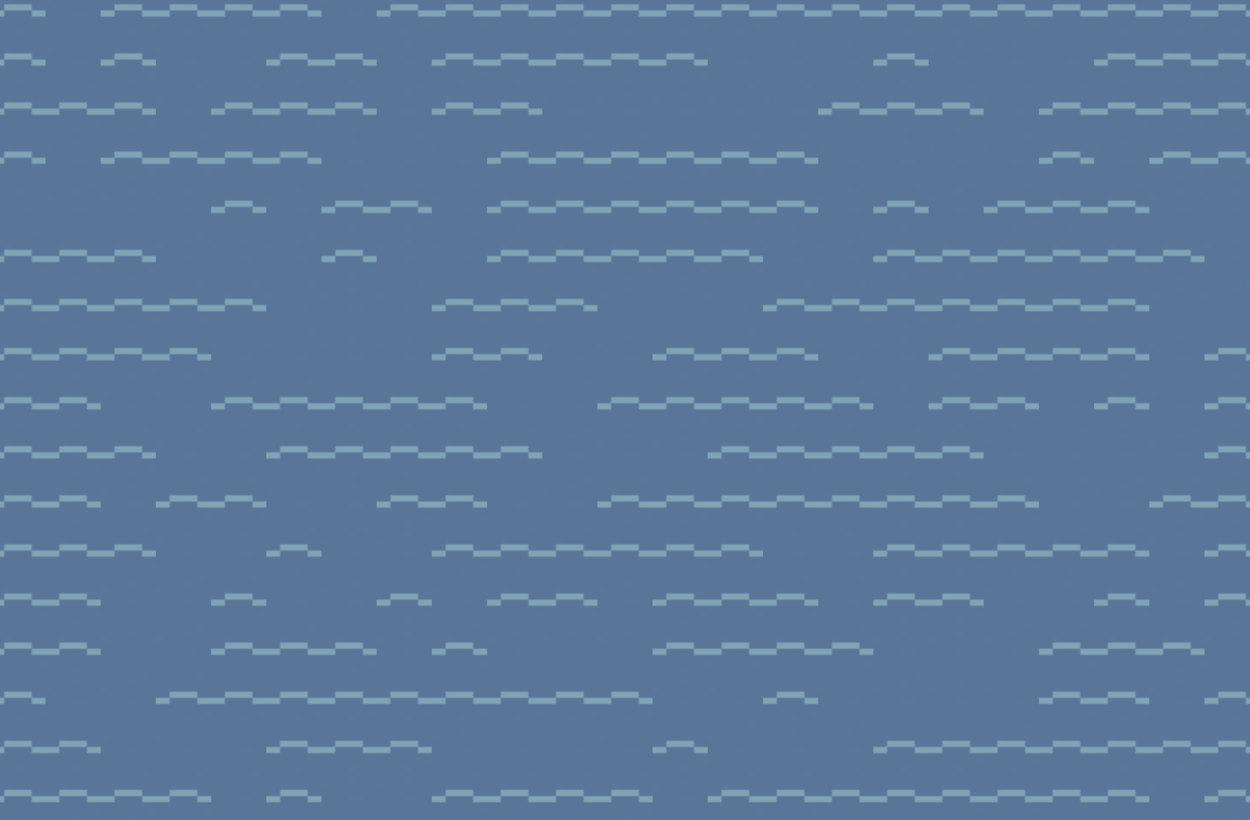
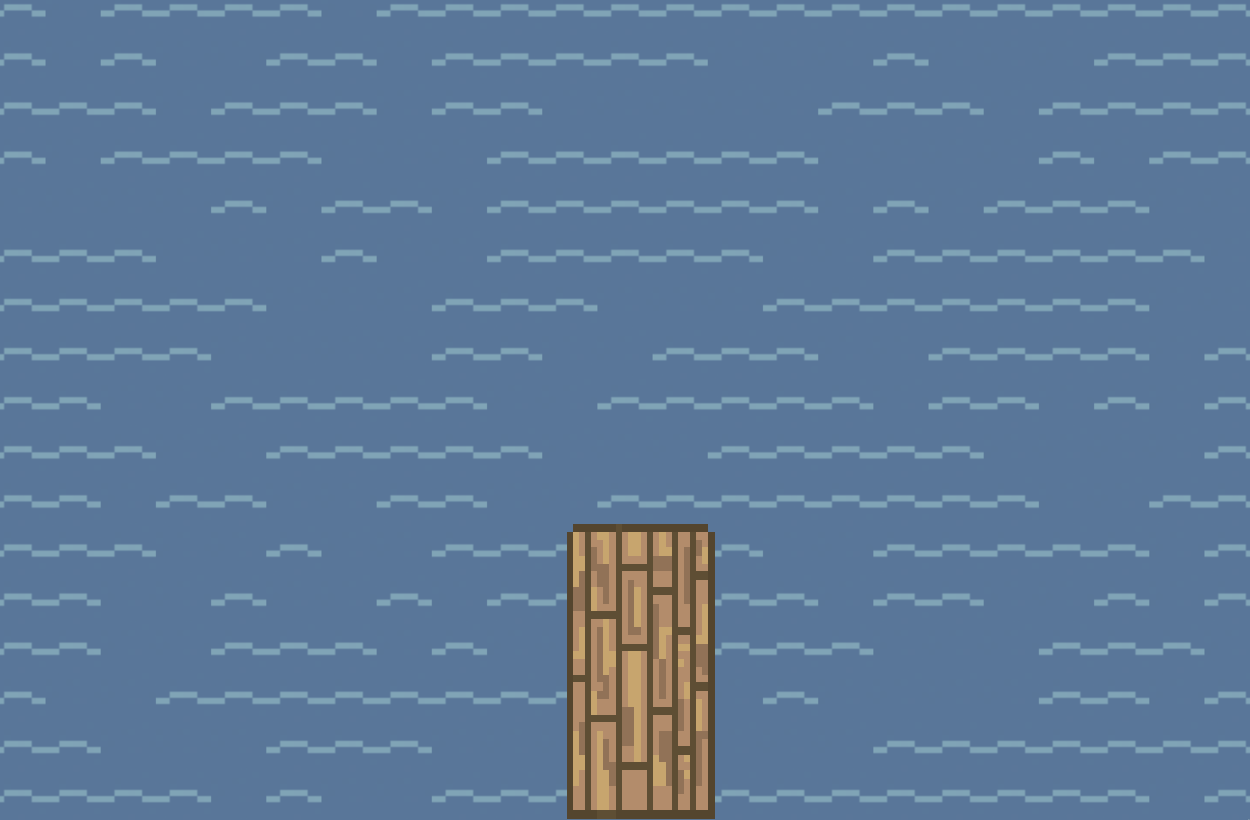
added authors and ocean to GUI

Changed region(s): [[0.4368, 0.6402, 0.5928, 1.0]]

diff --git a/src/GUI/GameController.java b/src/GUI/GameController.java
@@ -23,6 +23,10 @@ import java.util.ArrayList;
 import java.util.Map;
 import java.util.ResourceBundle;
 
+/**
+ *
+ * @author Kasper, Jonas
+ */
 public class GameController implements Initializable {
 
     Game game;
@@ -134,7 +138,7 @@ public class GameController implements Initializable {
             case W, A, S, D -> playerMove.onKeyPressedMovement(event.getCode());
             case SPACE -> {
                 goNextRoom();
-                picupItem();
+                pickupItem();
             }
             case Q -> dropBucket();
             case E -> emptyBucket();
@@ -222,7 +226,7 @@ public class GameController implements Initializable {
         }
     }
 
-    private void picupItem() {
+    private void pickupItem() {
         for (ImageView item : items) {
             if (item.getBoundsInParent().intersects(playerPane.getBoundsInParent())) {
                 String fileName = item.getImage().getUrl();
@@ -315,12 +319,24 @@ public class GameController implements Initializable {
             temp.setLayoutX(boundary.get(0));
             temp.setLayoutY(boundary.get(1));
             temp.setId("border");
-            //temp.setStyle("-fx-background-color: Blue;");
-            //playerPane.setStyle("-fx-background-color: Red;");
-            temp.setVisible(false);
+            temp.setStyle("-fx-background-color: Blue;");
+            playerPane.setStyle("-fx-background-color: Red;");
+            temp.setVisible(true);
+            DEBUGGINGMoveItemsAround(temp);
             scene.getChildren().add(temp);
             borders.add(temp);
         }
+    }
+
+    private static void DEBUGGINGMoveItemsAround(Pane temp) {
+        temp.setOnMouseDragged(event -> {
+            temp.setLayoutX(event.getSceneX());
+            temp.setLayoutY(event.getSceneY());
+        });
+        temp.setOnMouseReleased(event -> {
+            String outString = "{\""+temp.getId()+"\": [" + temp.getLayoutX()+", " + temp.getLayoutY() + ", " + temp.getPrefWidth() + ", " + temp.getPrefHeight() + "],\n";
+            System.out.println(outString);
+        });
     }
 
     private void changeSceneImage() {
@@ -341,8 +357,9 @@ public class GameController implements Initializable {
             temp.setLayoutX(value.get(0));
             temp.setLayoutY(value.get(1));
             temp.setId(key);
-            //temp.setStyle("-fx-background-color: Green;");
-            temp.setVisible(false);
+            temp.setStyle("-fx-background-color: Green;");
+            temp.setVisible(true);
+            DEBUGGINGMoveItemsAround(temp);
             playerMove.addCollider(temp);
         }
     }

diff --git a/src/domain/Game.java b/src/domain/Game.java
@@ -3,6 +3,10 @@ package oceanCleanup.src.domain;
 
 import java.util.List;
 
+/**
+ *
+ * @author Kasper, Jonas
+ */
 public class Game {
 
     protected Room currentRoom;
@@ -33,29 +37,32 @@ public class Game {
 
         dock.setExit("east", recyclingCenter);
         dock.setExit("north", ship);
+        // for GUI
         dock.setExit("torecyclingcenter", recyclingCenter);
         dock.setExit("toship", ship);
 
         recyclingCenter.setExit("west", dock);
         recyclingCenter.setExit("east", container);
+        // for GUI
         recyclingCenter.setExit("todock", dock);
         recyclingCenter.setExit("tocontainer", container);
 
         container.setExit("west", recyclingCenter);
+        // for GUI
         container.setExit("torecyclingcenter", recyclingCenter);
 
         ship.setExit("south", dock);
         ship.setExit("west", wheelhouse);
+        ship.setExit("east", ocean);
         ship.setExit("todock", dock);
         ship.setExit("towheelhouse", wheelhouse);
+        ship.setExit("toocean", ocean);
 
         wheelhouse.setExit("east", ship);
-        wheelhouse.setExit("north", ocean);
         wheelhouse.setExit("toship", ship);
-        wheelhouse.setExit("toocean", ocean);
 
-        ocean.setExit("south", wheelhouse);
-        ocean.setExit("towheelhouse", wheelhouse);
+        ocean.setExit("west", ship);
+        ocean.setExit("toship", ship);
 
 
         currentRoom = dock;

diff --git a/src/data/RoomDataParser.java b/src/data/RoomDataParser.java
@@ -10,8 +10,12 @@ import java.util.HashMap;
 import java.util.Map;
 
 /**
- * @author Kasper Møller
- **/
+ *
+ * @author Kasper
+ *
+ * This class is responsible for parsing the JSON files and creating the objects
+ * to be used in Room.java
+ */
 public class RoomDataParser {
     String filename;
     Map<String, ?> jsonContent;
@@ -82,15 +86,4 @@ public class RoomDataParser {
         return (String) getJsonContent().get("description");
     }
 
-    public static void main(String[] args) {
-        RoomDataParser parser = new RoomDataParser( "src/data/roomdescriptions/dock.json");
-
-        System.out.println(parser.getDescription());
-        System.out.println();
-        System.out.println(parser.getNPCs());
-        System.out.println();
-        System.out.println(parser.getItems());
-        System.out.println(parser.getBorders());
-
-    }
 }

diff --git a/src/textUI/CommandLineClient.java b/src/textUI/CommandLineClient.java
@@ -8,10 +8,13 @@ package oceanCleanup.src.textUI;
 import oceanCleanup.src.domain.Command;
 import oceanCleanup.src.domain.Commands;
 import oceanCleanup.src.domain.Game;
-import oceanCleanup.src.domain.Minigame;
 
 /**
  * @author ancla
+ */
+/**
+ *
+ * @author Kasper, Jonas, Duncan, Zubeyr
  */
 public class CommandLineClient {
 

diff --git a/src/GUI/GameApplication.java b/src/GUI/GameApplication.java
@@ -7,6 +7,10 @@ import javafx.scene.Scene;
 import javafx.stage.Stage;
 import oceanCleanup.src.domain.Game;
 
+/**
+ *
+ * @author Kasper, Jonas
+ */
 public class GameApplication extends Application {
     @Override
     public void start(Stage stage) throws Exception {

diff --git a/src/domain/CommandWordsImplementation.java b/src/domain/CommandWordsImplementation.java
@@ -5,6 +5,10 @@ import java.util.HashMap;
 import java.util.List;
 import java.util.Objects;
 
+/**
+ *
+ * @author Kasper, Jonas
+ */
 public class CommandWordsImplementation implements CommandWords {
     private HashMap<String, Commands> validCommands;
 

diff --git a/src/domain/Room.java b/src/domain/Room.java
@@ -6,6 +6,10 @@ import java.util.ArrayList;
 import java.util.Set;
 import java.util.HashMap;
 
+/**
+ *
+ * @author Kasper, Jonas
+ */
 public class Room {
     private final String description;
     private final HashMap<String, Room> exits;

diff --git a/src/domain/CommandImplementation.java b/src/domain/CommandImplementation.java
@@ -19,6 +19,10 @@
 
 package oceanCleanup.src.domain;
 
+/**
+ *
+ * @author Kasper, Jonas
+ */
 public class CommandImplementation implements Command {
     private final Commands commandName;
     private final String commandValue;

diff --git a/src/domain/NPCFactory.java b/src/domain/NPCFactory.java
@@ -1,5 +1,9 @@
 package oceanCleanup.src.domain;
 
+/**
+ *
+ * @author Kasper, Jonas
+ */
 public class NPCFactory {
 
     public static NPC create(String type, String name, double x, double y) throws IllegalStateException {

diff --git a/src/GUI/PlayerMove.java b/src/GUI/PlayerMove.java
@@ -13,6 +13,10 @@ import javafx.scene.layout.Pane;
 
 import java.util.ArrayList;
 
+/**
+ *
+ * @author Kasper, Jonas
+ */
 public class PlayerMove {
 
     private BooleanProperty wPressed = new SimpleBooleanProperty();

diff --git a/src/domain/ItemFactory.java b/src/domain/ItemFactory.java
@@ -1,5 +1,9 @@
 package oceanCleanup.src.domain;
 
+/**
+ *
+ * @author Kasper, Jonas
+ */
 public class ItemFactory {
 
     public static Item create(String type, double x, double y) throws IllegalStateException {

diff --git a/src/domain/Bucket.java b/src/domain/Bucket.java
@@ -2,6 +2,10 @@ package oceanCleanup.src.domain;
 
 import java.util.ArrayList;
 
+/**
+ *
+ * @author Kasper, Jonas
+ */
 public class Bucket extends Tool {
 
     ArrayList<Plastic> content = new ArrayList<>();
